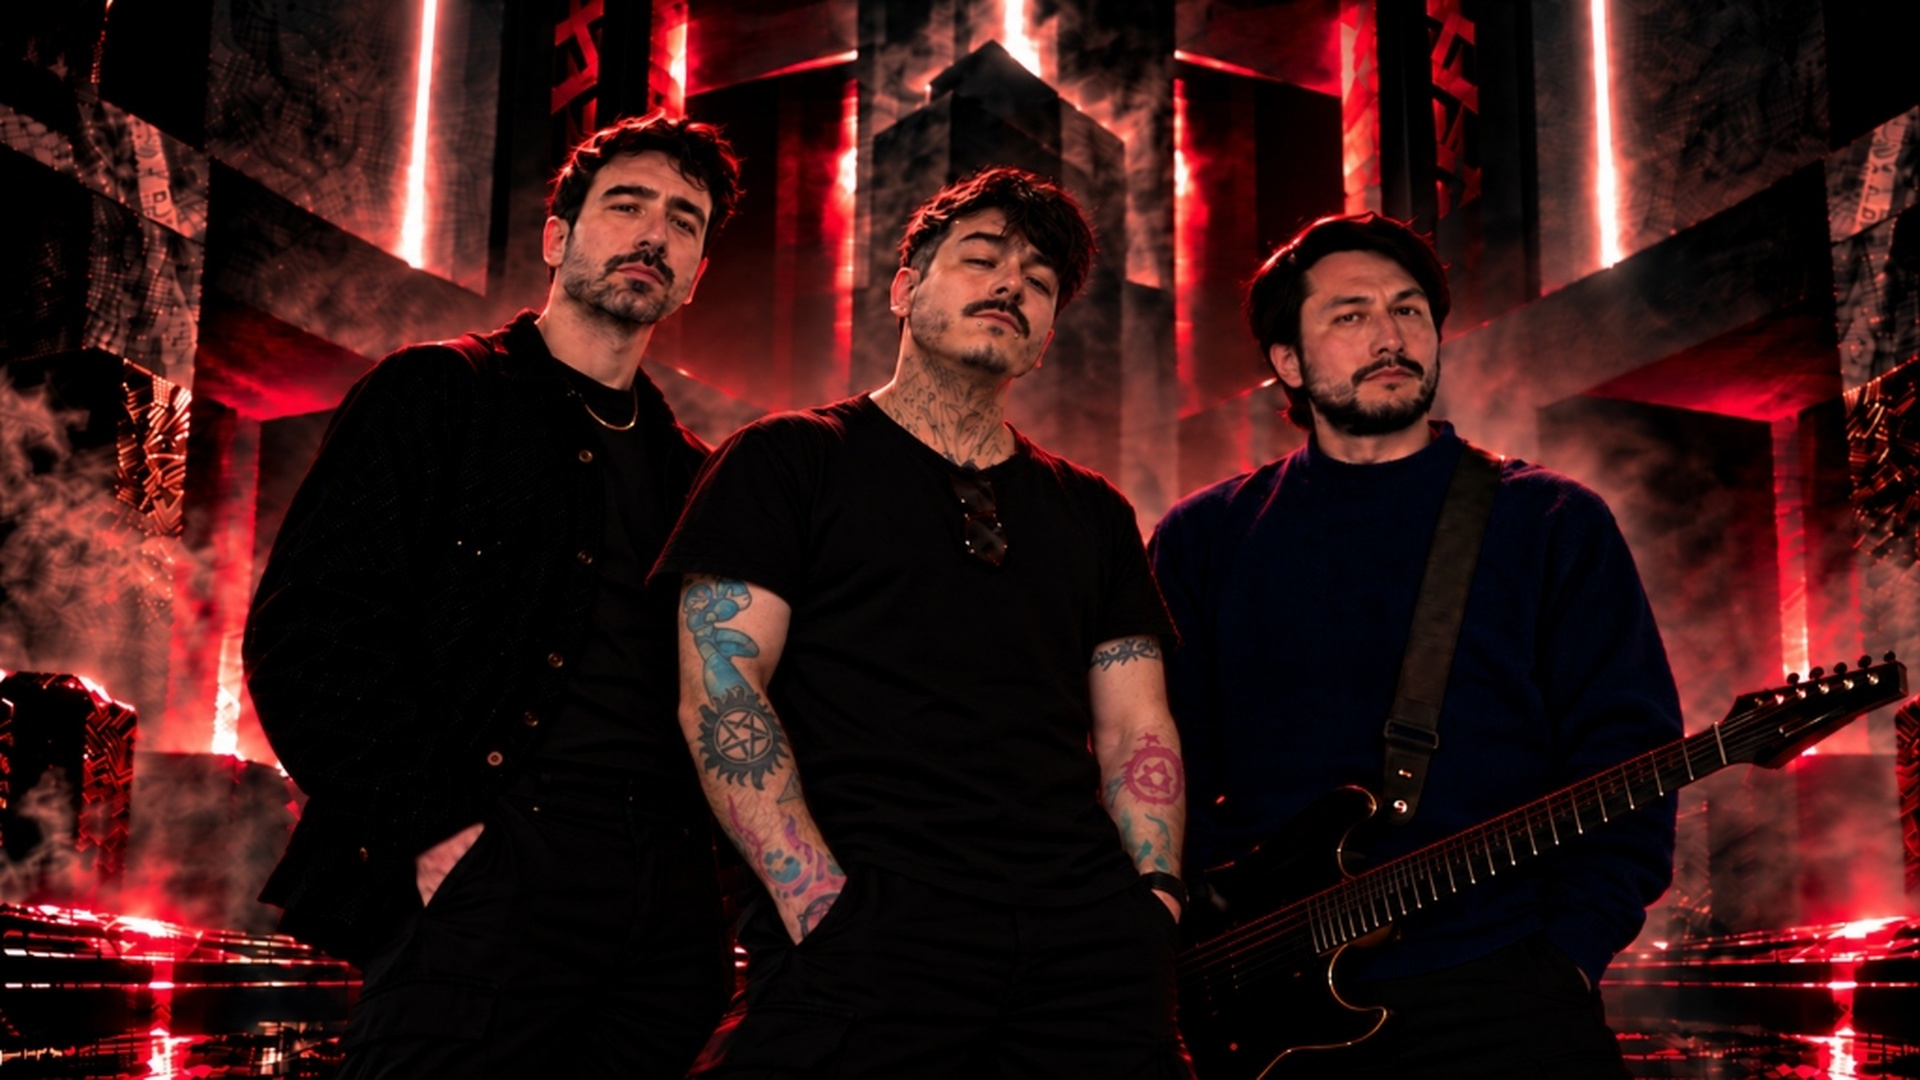
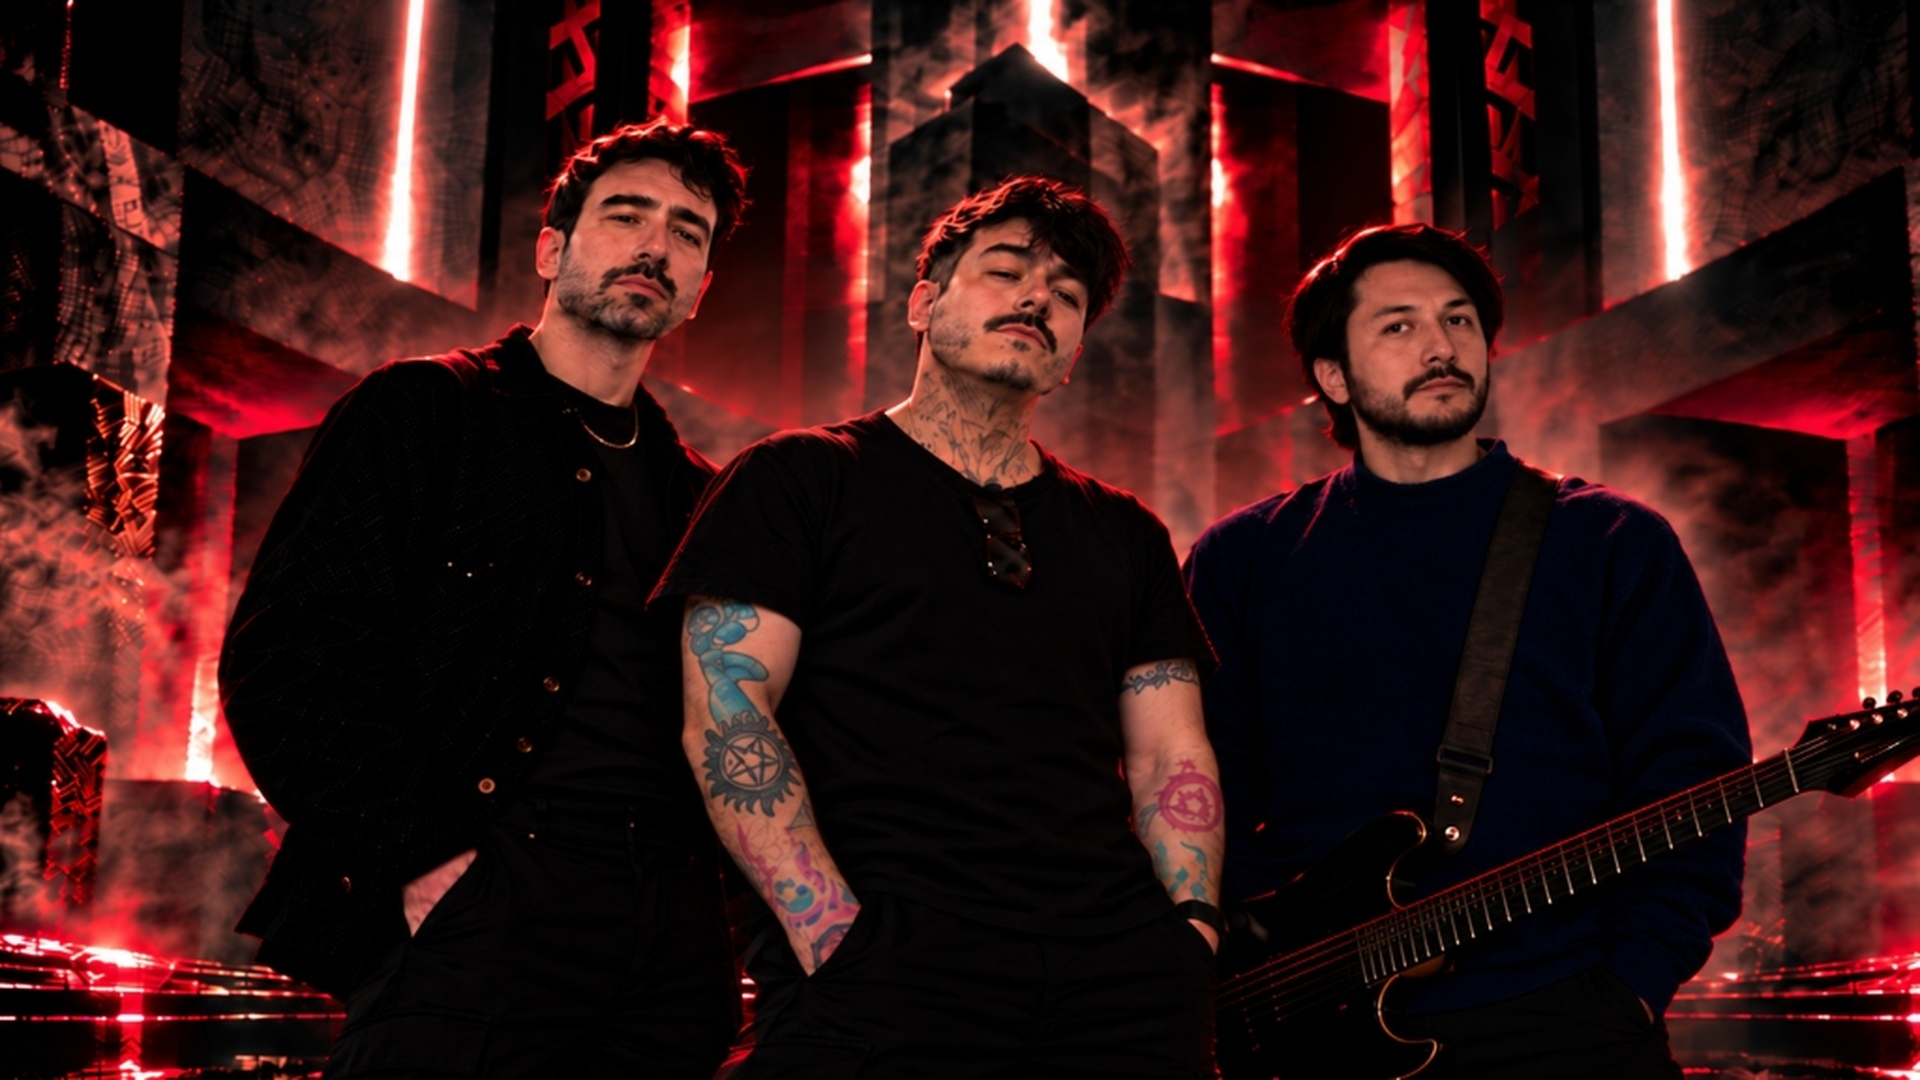
Update hero background images with new band photo and configure CNAME www.suggestiveline.cl

diff --git a/index.html b/index.html
@@ -86,9 +86,9 @@
         <!-- 1. Background Layer: Pure Band Photography without UI elements -->
         <div class="hero-bg-container">
             <picture class="hero-picture">
-                <source media="(max-width: 768px)" srcset="assets/hero_band_mobile.png?v=11.0">
-                <source media="(orientation: portrait) and (max-width: 1024px)" srcset="assets/hero_band_mobile.png?v=11.0">
-                <img src="assets/hero_band.jpg?v=11.0" alt="Suggestive Line Band" class="hero-band-bg">
+                <source media="(max-width: 768px)" srcset="assets/hero_band_mobile.png?v=12.0">
+                <source media="(orientation: portrait) and (max-width: 1024px)" srcset="assets/hero_band_mobile.png?v=12.0">
+                <img src="assets/hero_band.jpg?v=12.0" alt="Suggestive Line Band" class="hero-band-bg">
             </picture>
         </div>
         
@@ -440,7 +440,7 @@
     <script src="https://cdn.jsdelivr.net/npm/bootstrap@4.6.2/dist/js/bootstrap.bundle.min.js" integrity="sha384-Fy6S3B9q64WdZWQUiU+q4/2Lc9npb8tCaSX9FK7E8HnRr0Jz8D6OP9dO5Vg3Q9ct" crossorigin="anonymous"></script>
     
     <!-- Custom JavaScript Interactions -->
-    <script src="script.js?v=11.0"></script>
+    <script src="script.js?v=12.0"></script>
     
     <!-- Audio-lyrics bridge script (Optional extra for lyrics canvas) -->
     <script>
